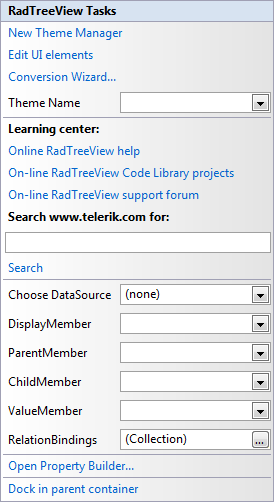
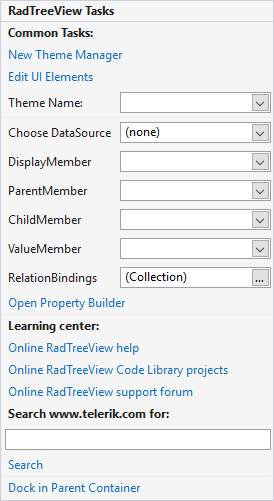
working on tree view review

Changed region(s): [[0.0, 0.0, 1.0, 1.0]]

diff --git a/treeview/drag-and-drop/modify-the-dragdropservice-behavior.md b/treeview/drag-and-drop/modify-the-dragdropservice-behavior.md
@@ -11,17 +11,14 @@ previous_url: treeview-drag-and-drop-modify-the-drag-drop-service-behavior
 
 # Modify the DragDropService behavior
 
-
-
-This article demonstrates how to customize the TreeViewDragDropService behavior and more precisely how to customize it to copy the nodes when dropped, instead of moving them.
+This article demonstrates how to customize the __TreeViewDragDropService__ behavior and more precisely how to customize it to copy the nodes when dropped, instead of moving them.
 
 ![treeview-drag-and-drop-modify-the-drag-drop-service-behavior 001](images/treeview-drag-and-drop-modify-the-drag-drop-service-behavior001.gif)
 
 
-To achieve this scenario we will need to create a descendant of TreeViewDragDropService (lets call it CustomDragDropService) where we will expose the RadTreeViewElement as a field, so we can use it later. This field will be assigned in the CustomDragDropService class constructor. We will also need another field of type RadTreeNode which will hold the dragged node. The latter will be assigned in the PerformStart method and will be cleared in the PerformStop method.
-        
+To achieve this scenario we will need to create a descendant of TreeViewDragDropService (lets call it CustomDragDropService) where we will expose the RadTreeViewElement as a field, so we can use it later. This field will be assigned in the CustomDragDropService class constructor. We will also need another field of type RadTreeNode which will hold the dragged node. The latter will be assigned in the __PerformStart__ and will be cleared in the __PerformStop__ method.
 
-Next we need to override the OnPreviewDragOver method, where we will specify upon what conditions a drop will be allowed and finally, in the OnPreviewDragDrop override, we will add the logic for copying the selected nodes instead of moving them:
+Next we need to override the __OnPreviewDragOver__ method, where we will specify upon what conditions a drop will be allowed and finally, in the __OnPreviewDragDrop__ method override, we will add the logic for copying the selected nodes instead of moving them:
 
 {{source=..\SamplesCS\TreeView\DragAndDrop\ModifyTheDragDropServiceBehavior\CustomDragDropService.cs region=CustomDragDropService}} 
 {{source=..\SamplesVB\TreeView\DragAndDrop\ModifyTheDragDropServiceBehavior\CustomDragDropService.vb region=CustomDragDropService}} 
@@ -171,7 +168,7 @@ End Class
 
 {{endregion}} 
 
-After the custom drag and drop behavior is created, we need to replace the default one. This can be achieved in the CreateDragDropService method of RadTreeViewElement, so we create a new element for the purpose:
+After the custom drag and drop behavior is created, we need to replace the default one. This can be achieved in the __CreateDragDropService__ method of RadTreeViewElement, so we create a new element for the purpose:
 
 {{source=..\SamplesCS\TreeView\DragAndDrop\ModifyTheDragDropServiceBehavior\CustomTreeViewElement.cs region=CustomTreeViewElement}} 
 {{source=..\SamplesVB\TreeView\DragAndDrop\ModifyTheDragDropServiceBehavior\CustomTreeViewElement.vb region=CustomTreeViewElement}} 
@@ -214,7 +211,7 @@ End Class
 
 {{endregion}}
 
-Now we need to use this CustomTreeViewElement in the tree. To do that we need to pass a new instance of this element in the CreateTreeViewElement of RadTreeView decendant:
+Now we need to use this CustomTreeViewElement in the tree. To do that we need to pass a new instance of this element in the __CreateTreeViewElement__ method of RadTreeView descendant:
 
 {{source=..\SamplesCS\TreeView\DragAndDrop\ModifyTheDragDropServiceBehavior\CustomTreeView.cs region=CustomTreeView}} 
 {{source=..\SamplesVB\TreeView\DragAndDrop\ModifyTheDragDropServiceBehavior\CustomTreeView.vb region=CustomTreeView}} 

diff --git a/treeview/drag-and-drop/enabling-drag-and-drop.md b/treeview/drag-and-drop/enabling-drag-and-drop.md
@@ -11,24 +11,18 @@ previous_url: treeview-drag-and-drop-enabling-drag-and-drop
 
 # Enabling Drag and Drop
 
-
-
 The key RadTreeView boolean properties enable Drag and Drop functionality: __AllowDragDrop__, and __AllowDrop__.
-      
 
 * __AllowDragDrop__ enables the drag and drop functionality for a tree view control. Drag and drop functionality can also be used to reorder nodes.
-          
 
-* __AllowDrop__ when true accepts data that the user drags onto it. This event is used to interact with drag and drop for standard Windows controls.
-          
+* __AllowDrop__ when true accepts data that the user drags onto it. This property is used to interact with drag and drop for standard Windows controls.
 
 >note Multiple nodes can be dragged if the RadTreeView __AllowMultiSelect__ property is true.
 >
 
-
 ## AllowDragDrop
 
-__AllowDragDrop__ when true enables fully automatic drag and drop. The selected node and child nodes are all moved to the target location with user interaction only.  No code is required. The following screenshots show drag and drop behaviors. Notice the visual cues that assist the user in navigating the tree.
+__AllowDragDrop__ when true enables fully automatic drag and drop. The selected node and child nodes are all moved to the target location with user interaction only. No code is required. The following screenshots show drag and drop behaviors. Notice the visual cues that assist the user in navigating the tree.
 
 
 | __Description__ | __User Action__ |
@@ -44,17 +38,18 @@ __AllowDrop__ when true enables RadTreeView to accept data dropped onto it. Thi
 
 To implement this functionality:
 
-* Set __AllowDrop__ for both RadTreeView and the RadTextBox control to true.
+* Set __AllowDrop__ for both RadTreeView and the RadTextBox control to *true*.
             
 
-* Code the MouseDown event handler of the RadTextBox HostedControl to call the control's __DoDragDrop()__ method.
+* Implement the __MouseDown__ event handler of the RadTextBox HostedControl to call the control's __DoDragDrop()__ method.
           
           
 
-* Code the RadTreeView DragEnter event handler to set the arguments __Effects__ property.
+* Implement the RadTreeView DragEnter event handler to set the arguments __Effects__ property.
             
 
-* Code the RadTreeView DragDrop event handler to react to the drop operation. In the code sample below the RadTreeView __PointToClient()__ and __GetNodeAt()__ methods are used to retrieve the dropped node.
+* Implement the RadTreeView DragDrop event handler to react to the drop operation. In the code sample below the RadTreeView __PointToClient()__ and __GetNodeAt()__ methods are used to retrieve the dropped node.
+
 
 {{source=..\SamplesCS\TreeView\DragAndDrop\EnablingDragAndDrop.cs region=dragDrop}} 
 {{source=..\SamplesVB\TreeView\DragAndDrop\EnablingDragAndDrop.vb region=dragDrop}} 

diff --git a/treeview/design-time/smart-tag.md b/treeview/design-time/smart-tag.md
@@ -16,14 +16,34 @@ The Smart Tag for RadTreeView lets you quickly access common tasks involved with
 
 ![treeview-design-time-smart-tag 001](images/treeview-design-time-smart-tag001.png)
 
-* __New Theme Manager__: Adds a new __RadThemeManager__ component to the form.
+* __Common Tasks__
+    
+    - __New Theme Manager__: Adds a new __RadThemeManager__ component to the form.
 
-* __Theme Name__: Select a theme name from the drop down list of themes available for that control. Selecting a theme allows you to change all aspects of the controls visual style at one time.
+    - __Edit UI elements__: Opens a dialog that displays the __Element Hierarchy Editor__. This editor lets you browse all the elements in the control, including the RadGridView itself and elements that make up the columns, rows, headers and other parts of the grid. 
+
+    - __Theme Name__: Select a theme name from the drop down list of themes available for that control. Selecting a theme allows you to change all aspects of the controls visual style at one time. 
+
+* __Data Binding__
+
+    - __Choose DataSource:__ Allows you to select a DataSource in order to populate the control.
+
+    - __DisplayMemeber:__ Sets the display member.
+
+    - __ParentMember:__ Sets the parent member.
+
+    - __ChildMember:__ Sets the child member.
+    
+    - __ValueMember:__ Sets the value member.
+    
+    - __Relation Bindings:__ Allow you to edit the relations collection.
+
+
+* __[OpenProperty Builder]({%slug winforms/treeview/design-time/property-builder%})__: Use the Property Builder to quickly create and arrange node structure and appearance.
 
 * __Learning Center__: Navigate to the Telerik help, code library projects or support forum.
 
 * __Search__: Search the Telerik site for a given string.
 
-* __Open__ [Property Builder]({%slug winforms/treeview/design-time/property-builder%}): Use the Property Builder to quickly create and arrange node structure and appearance.
 
 * __Dock in parent container__: Docks RadTreeView into the parent container.

diff --git a/treeview/drag-and-drop/cancel-a-drag-and-drop-operation.md b/treeview/drag-and-drop/cancel-a-drag-and-drop-operation.md
@@ -11,10 +11,6 @@ previous_url: treeview-drag-and-drop-cancel-a-drag-and-drop-operation
 
 # Cancel a Drag and Drop Operation
 
-
-
-## 
-
 In some cases you may need to impose restrictions on the drag and drop behavior. For example you may want to disallow the dropping of a node to specific location, prevent node form being dropped at different level, or perhaps disable the auto expanding of the nodes while dragging.
 
 ![treeview-drag-and-drop-cancel-a-drag-and-drop-operation 001](images/treeview-drag-and-drop-cancel-a-drag-and-drop-operation001.jpg)
@@ -22,7 +18,7 @@ In some cases you may need to impose restrictions on the drag and drop behavior.
 ## Using AllowDrop property 
         
 
-You can interrupt a drag and drop operation by setting the __AllowDrop__ property of a specific RadTreeNode to false. This way you still can drag this particular node, by you cannot add other nodes to it with drag and drop operation. You can set this for any particular node you want.
+You can interrupt a drag and drop operation by setting the __AllowDrop__ property of a specific RadTreeNode to *false*. This way you still can drag this particular node, but you cannot add other nodes to it with drag and drop operation. You can set this for any particular node you want.
 
 {{source=..\SamplesCS\TreeView\DragAndDrop\CancelDragAndDropOperation.cs region=AllowDrop}} 
 {{source=..\SamplesVB\TreeView\DragAndDrop\CancelDragAndDropOperation.vb region=AllowDrop}} 

diff --git a/treeview/drag-and-drop/drag-and-drop-in-bound-mode.md b/treeview/drag-and-drop/drag-and-drop-in-bound-mode.md
@@ -11,8 +11,6 @@ previous_url: treeview-drag-and-drop-drag-and-drop-in-bound-mode
 
 # Drag and Drop in bound mode
 
-
-
 When the __RadTreeView__ is in bound mode, it supports drag and drop behavior. In order to enable this functionality, you should set the __AllowDragDrop__ property to *true*. However, due to the specificity of  the __RadTreeView__’s [data binding]({%slug winforms/treeview/data-binding/data-binding-basics%})  and the set up hierarchical data structure, it is necessary to handle manually the drag and drop operation to obtain correct nodes order. For this purpose, it is necessary to create a custom __TreeViewDragDropService__. This article demonstrates a sample approach how to achieve it.
 
 ![treeview-drag-and-drop-drag-and-drop-in-bound-mode 001](images/treeview-drag-and-drop-drag-and-drop-in-bound-mode001.gif)
